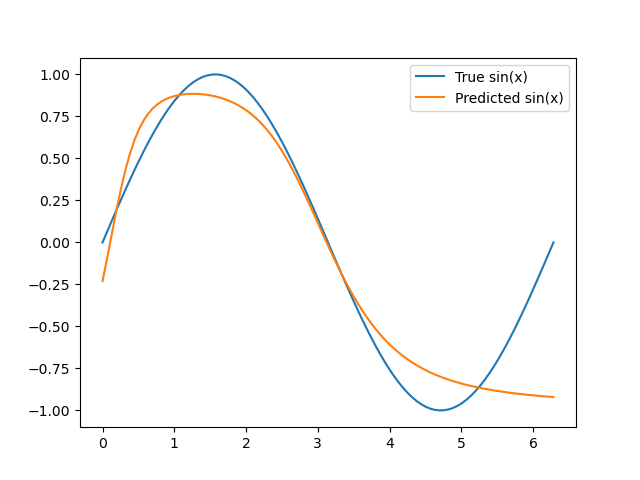
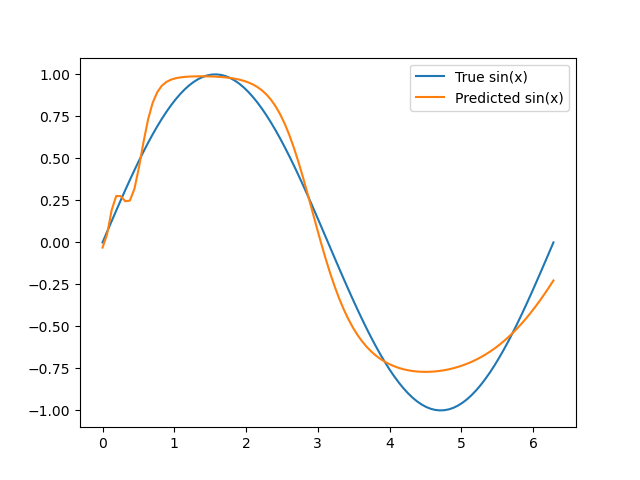
reduced_middle_states

diff --git a/multi_train.py b/multi_train.py
@@ -63,9 +63,13 @@ def multi_shot(x, y, layers_per_segment, units, epochs, learning_rate):
 
     return full_model, loss_record
 
-def plot(x, y, predictions, name):
-    plt.plot(x, y, label=name[0])
-    plt.plot(x, predictions, label=name[1])
+def plot(x, y, predictions, name, loss: True):
+    if loss:
+        plt.plot(x, np.log10(y), label=name[0])
+        plt.plot(x, np.log10(predictions), label=name[1])
+    else:
+        plt.plot(x, y, label=name[0])
+        plt.plot(x, predictions, label=name[1])
     plt.legend()
     plt.pause(1)
     if not os.path.exists("images"):
@@ -81,17 +85,17 @@ def main():
         x, y,
         layers_per_segment=2,
         units=16,
-        epochs=1000,
+        epochs=2000,
         learning_rate=0.001
     )
 
     predictions = model.predict(x)
     plot(x, y, predictions,
-         ["True sin(x)", "Predicted sin(x)", "results"])
+         ["True sin(x)", "Predicted sin(x)", "results"], loss=False)
     plot(range(len(loss_record)), 
          [record[0] for record in loss_record], 
          [record[1] for record in loss_record], 
-         ["segements loss", "full model loss", "losses"])
+         ["segements loss", "full model loss", "losses"], loss=True)
 
 if __name__ == "__main__":
     main()
